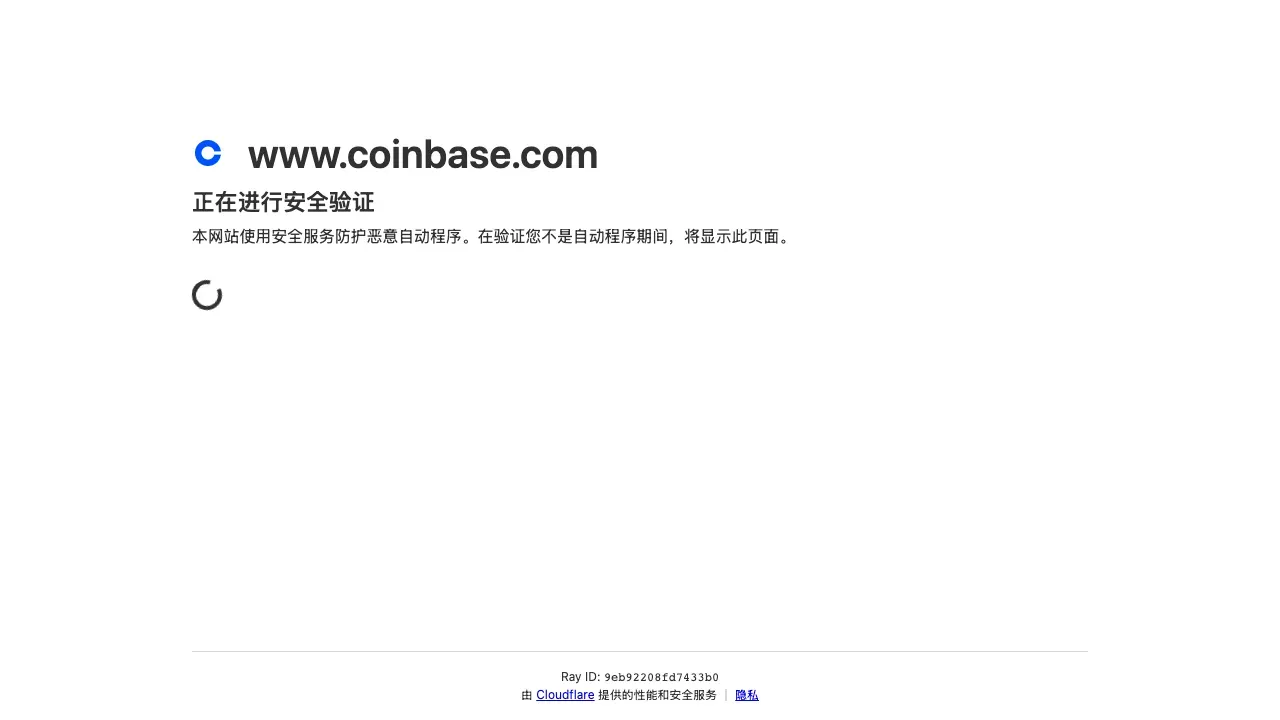
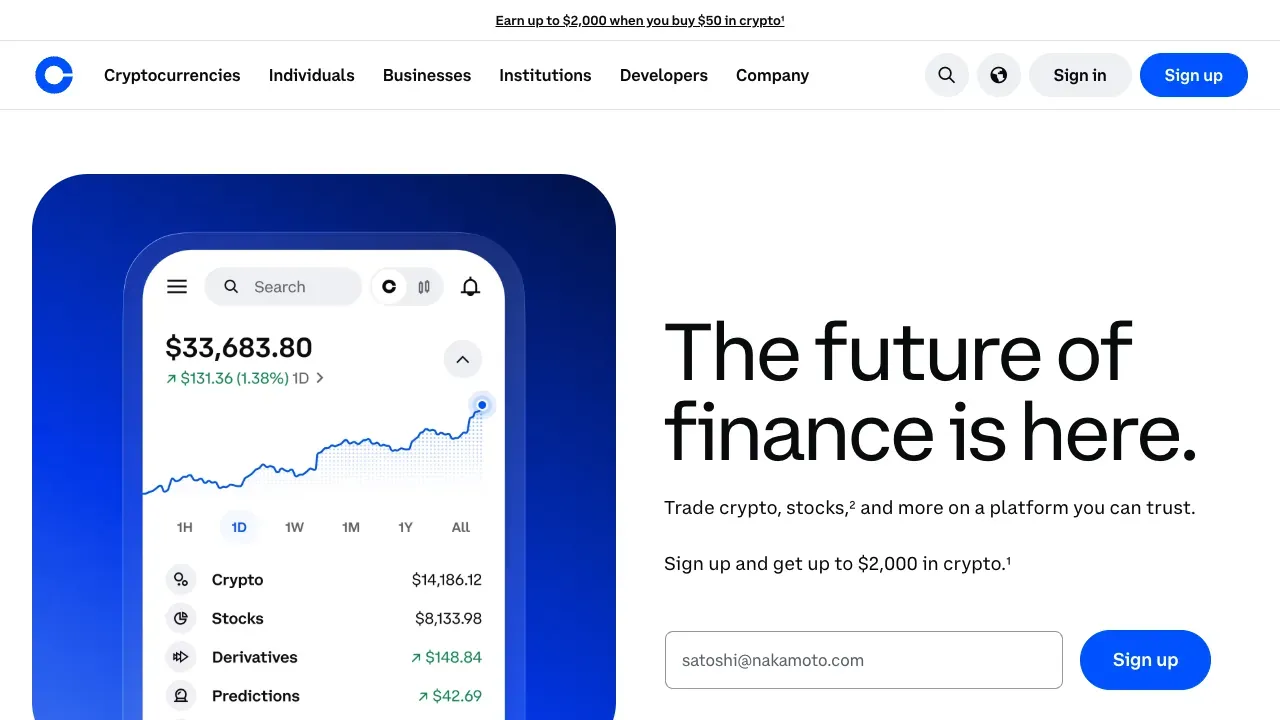
fix: re-capture invalid screenshots with stealth mode
Re-capture 16 brands that showed blank/blocked pages using:
- Realistic Chrome User-Agent
- Stealth mode (webdriver flag removal, plugin/language overrides)
- Longer wait (networkidle + 3s)
- Alternative URLs for linear.app and pinterest
- Headed mode for ferrari

Improvements: coinbase 14→38KB, revolut 7→49KB, tesla 13→69KB,
airbnb 5→48KB, apple 1.7→18KB, spotify 1.7��25KB, linear 4→20KB,
pinterest 7→78KB, ferrari 1.7→35KB, spacex 5.6→24KB.

Lamborghini remains 7KB (site unreachable from current network).

diff --git a/scripts/capture-screenshots.ts b/scripts/capture-screenshots.ts
@@ -37,27 +37,62 @@ let failed = 0
 const CHROME_PATH = process.env.CHROME_EXECUTABLE_PATH ??
   '/Users/admin/Library/Caches/ms-playwright/chromium-1208/chrome-mac-arm64/Google Chrome for Testing.app/Contents/MacOS/Google Chrome for Testing'
 
-const browser = await chromium.launch({
-  headless: true,
-  executablePath: CHROME_PATH,
-})
-const context = await browser.newContext({ viewport: VIEWPORT })
-
 const limit = Number.parseInt(process.env.SCREENSHOT_LIMIT || '', 10)
-const targetBrands = Number.isNaN(limit) || limit <= 0 ? brands : brands.slice(0, limit)
+const only = process.env.SCREENSHOT_ONLY ? process.env.SCREENSHOT_ONLY.split(',').map(s => s.trim()) : null
+
+let targetBrands = Number.isNaN(limit) || limit <= 0 ? brands : brands.slice(0, limit)
+if (only) {
+  targetBrands = brands.filter(b => only.includes(b.id))
+}
+
+// Use headed mode for sites with aggressive anti-bot
+const HEADED_IDS = new Set(['ferrari', 'lamborghini'])
+const useHeaded = targetBrands.some(b => HEADED_IDS.has(b.id))
+
+const browser = await chromium.launch({
+  headless: !useHeaded,
+  executablePath: CHROME_PATH,
+  args: [
+    '--disable-blink-features=AutomationControlled',
+    '--disable-features=IsolateOrigins,site-per-process',
+  ],
+})
+const context = await browser.newContext({
+  viewport: VIEWPORT,
+  userAgent:
+    'Mozilla/5.0 (Macintosh; Intel Mac OS X 10_15_7) AppleWebKit/537.36 (KHTML, like Gecko) Chrome/131.0.0.0 Safari/537.36',
+})
+
+// Stealth: remove webdriver flag
+await context.addInitScript(() => {
+  Object.defineProperty(navigator, 'webdriver', { get: () => undefined })
+  // Override plugins to look like a real browser
+  Object.defineProperty(navigator, 'plugins', { get: () => [1, 2, 3, 4, 5] })
+  Object.defineProperty(navigator, 'languages', { get: () => ['en-US', 'en'] })
+})
+
+// Override URLs for sites that block headless browsers
+const URL_OVERRIDES: Record<string, string> = {
+  'linear.app': 'https://linear.app/method',
+  'pinterest': 'https://newsroom.pinterest.com',
+  'lamborghini': 'https://www.lamborghini.com/en-en',
+  'ferrari': 'https://www.ferrari.com/en-EN',
+}
 
 for (const brand of targetBrands) {
   const outPath = join(OUTPUT_DIR, `${brand.id}.webp`)
+  const url = URL_OVERRIDES[brand.id] ?? brand.websiteUrl
 
   try {
     const page = await context.newPage()
-    await page.goto(brand.websiteUrl, {
+    await page.goto(url, {
       waitUntil: 'domcontentloaded',
       timeout: TIMEOUT_MS,
     })
 
-    // Give the page a moment to render before capturing
-    await page.waitForTimeout(1500)
+    // Wait for network to settle, then extra render time
+    try { await page.waitForLoadState('networkidle', { timeout: 8000 }) } catch {}
+    await page.waitForTimeout(3000)
 
     const pngBuffer = await page.screenshot({ type: 'png', fullPage: false })
     await page.close()
